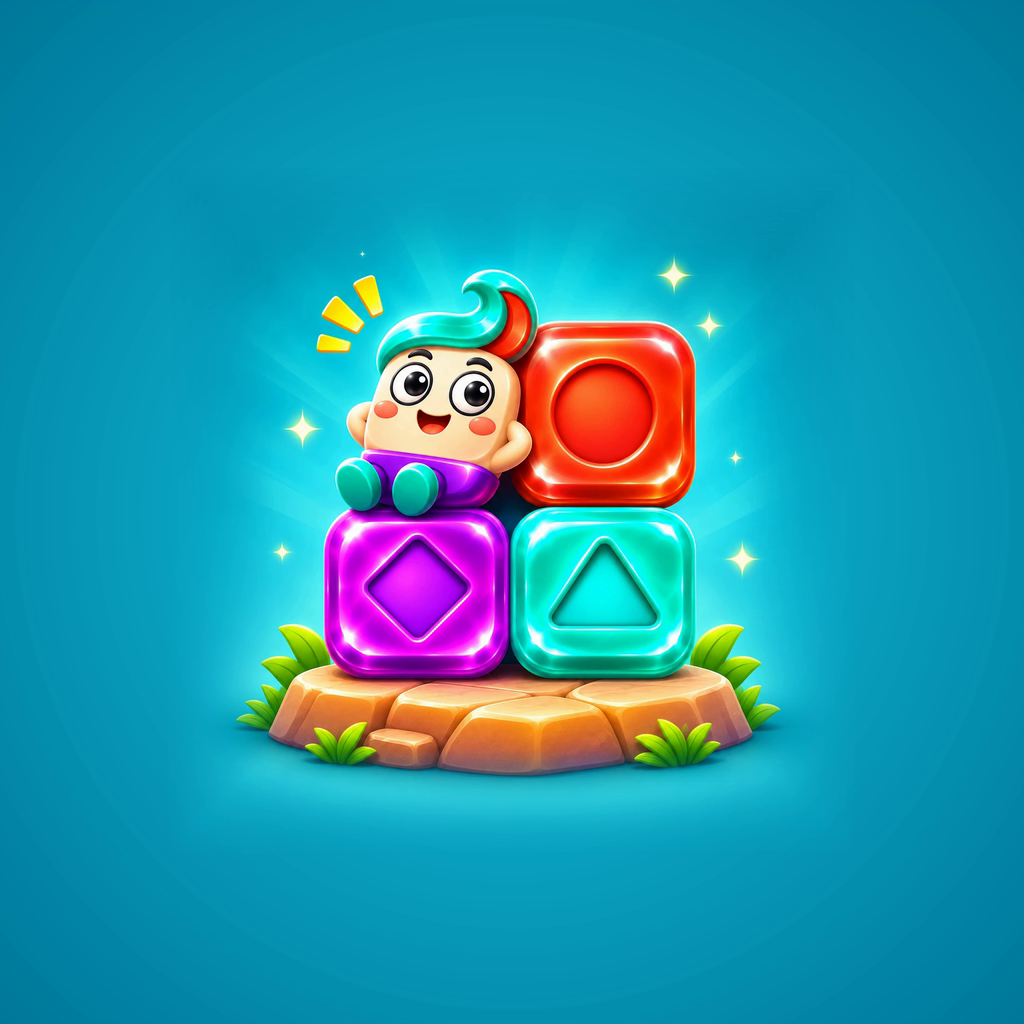
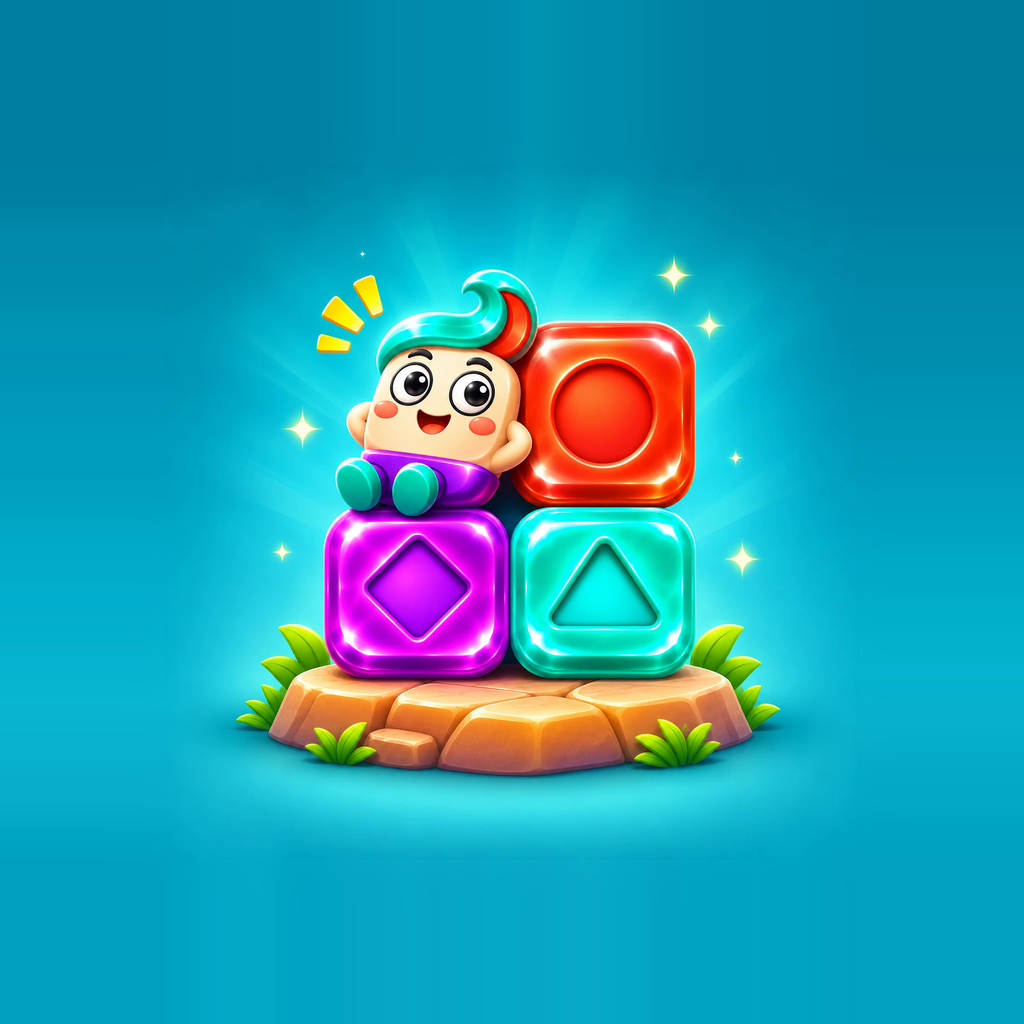
İkon v3: Android zemininde orijinal görsel birebir (ışınlar korunur), tüm boyutlar PNG kaynaktan

diff --git a/Assets/KatKat/Editor/BuildScripts.cs b/Assets/KatKat/Editor/BuildScripts.cs
@@ -224,7 +224,7 @@ namespace KatKat.EditorTools
 
         /// <summary>Uygulama ikonu (kullanıcı 2026-11-17: "yeni uygulama iconumuz bu"): docs/gorseller/arayuz/uygulama-ikonu-v3.png (maskot + 3 taş, turkuaz zemin; 1024'e küçültüldü).
         /// Önceki ikonlar arşivde: KatKat_Arsiv_2026-11-06/ikon_1.0_2026-11-10 ve ikon_1.0.1_2026-11-17.
-        /// Android uyarlanabilir: app-icon-bg = görselin zeminine uyan turkuaz radyal geçiş + ortada %68 ikon (kenarı yumuşak), app-icon-fg = saydam.</summary>
+        /// Android uyarlanabilir: app-icon-bg = ortada %68 orijinal görsel birebir (ışınlar dahil, kullanıcı: "orjinalini bozma"); dışı görselin kenar pikselleri uzatılıp hafif bulanıklaştırılarak doldurulur. app-icon-fg = saydam.</summary>
         private static Texture2D IconTex(string path)
         {
             var imp = AssetImporter.GetAtPath(path) as TextureImporter;

diff --git a/docs/KARARLAR.md b/docs/KARARLAR.md
@@ -10,7 +10,7 @@ Eski ayrıntılı karar günlüğü arşivde (`KatKat_Arsiv_2026-11-06/docs/KARA
 | Zincir yok (v14, 2026-11-16) | Kullanıcı: "zincir patlamaları iptal edelim", karar "Tamamen kaldır". Altından çıkan grup kendiliğinden patlamaz; seal/chainOnly/collectChain/aha verisi doğrulayıcıda reddedilir. Bölümler doğrudan yeniden üretildi ("Doğrudan 1000 bölüm"; "henüz yayında oyuncu yok", ilerleme göçü gerekmedi). |
 | Bölümler (v14) | `LevelLab v14` (`MainV14.cs`), eğri ve ölçütler `docs/v14/PLAN.md`; sağlama `levels_v14.sha256`. İç boşluklu tahta yok ("ortası delik tahtaları da kaldıralım"), dış hat çeşitli. 6 renk (Green, Navy eklendi). İleri bölümler zor ("ileri bölümler kolay olmasın"): 301+ pay 0–1, rastgele bot ≤%3. Eski v13 katalog arşivde. |
 | Renk açılış sırası (kullanıcı, 2026-11-16: "ilk beyaz ve turkuaz ile başla sonra kırmızı gelsin, sonra mor gelsin sonra yeşil sonra mavi. Bunu geniş bir bölüme yay tüm taşlar hemen çıkmasın") | İnci + turkuaz 1, mercan 8, mor 21, yeşil 61, lacivert 201 (`MainV14.V14ColorIntro`). Bölüm paleti yalnız açılmış renklerden seçilir. 1. bölümde iki renkle katlar soyulunca gruplar birleşip roket doğuruyordu: bu bölümde alt katlar üst katla aynı renk. Yalnız 1–200 yeniden üretildi (201+ zaten 6 renk); günlük bulmaca yeniden üretildi. |
-| Uygulama ikonu v3 (kullanıcı, 2026-11-17: "yeni uygulama iconumuz bu") | `Art/app-icon.png` ve `app-icon-legacy.png` = yeni görsel 1024; `app-icon-bg.png` turkuaz radyal geçiş + %68 görsel (yumuşak kenar), `app-icon-fg` saydam; `notify-large.png` 256; `docs/facebook/app-icon-1024/16` güncellendi. Kaynak `docs/gorseller/arayuz/uygulama-ikonu-v3.png` (1254). Eskiler `KatKat_Arsiv_2026-11-06/ikon_1.0.1_2026-11-17`. Mağaza ikonları (Play 512, AppGallery 216) ve yayındaki derlemeler değişmedi; sonraki derlemeyle gelir. |
+| Uygulama ikonu v3 (kullanıcı, 2026-11-17: "yeni uygulama iconumuz bu") | `Art/app-icon.png` ve `app-icon-legacy.png` = yeni görsel 1024; `app-icon-bg.png` ortada %68 orijinal birebir (kullanıcı: "orjinalini bozma ortadan yayılan ışıltıları yok etmişsin"; ilk denemedeki yumuşak kenar/renk geçişi kaldırıldı), dışı kenar pikselleri uzatılarak doldurulur, `app-icon-fg` saydam; `notify-large.png` 256; `docs/facebook/app-icon-1024/16` güncellendi. Kaynak `docs/gorseller/arayuz/uygulama-ikonu-v3.png` (1254). Eskiler `KatKat_Arsiv_2026-11-06/ikon_1.0.1_2026-11-17`. Mağaza ikonları (Play 512, AppGallery 216) ve yayındaki derlemeler değişmedi; sonraki derlemeyle gelir. |
 | Özel taşlar | 5–7 grup roket, 8+ Altın Rulo; tahtaya değil tepsiye (en çok 4). Seç ve taşa dokun; hamle harcamaz. Hamle bitse de tepside etkili taş varsa oyun sürer. |
 | Bölüm verisi | Kaynak `levels_src/*.txt`; JSON `LevelLab build` ile üretilir (JSON'a elle dokunma). Çözüm adımı `use yuva,x,y` tepsi kullanımıdır. |
 | Tahta şekli | (v14: iç boşluk yok, aşağısı v7–v13 arşivi) Karelerden dış hat (kesik köşe, L, T, artı, merdiven, kum saati, U, çatı, elmas) ve v7'den itibaren içi boş şekiller (halka, çift göz, kesik halka; 21+ bölümlerde her 3 bölümde bir, kenara değmeyen 2×2–3×3 boşluk). Boşluğa animasyonlu süs konur (maskot, fener, kaya, çeşme). |

diff --git a/docs/DURUM.md b/docs/DURUM.md
@@ -3,7 +3,7 @@
 Son güncelleme: 2026-11-16. Oyunun tam tanımı: [OYUN.md](OYUN.md). Kararlar: [KARARLAR.md](KARARLAR.md).
 
 ## Şu an
-- **2026-11-17: Yeni uygulama ikonu (v3)** (kullanıcı: "yeni uygulama iconumuz bu"). Maskot + 3 taş, turkuaz zemin. Değişen: `Assets/KatKat/Art/app-icon.png`, `app-icon-legacy.png`, `app-icon-bg.png` (Android uyarlanabilir zemin: turkuaz geçiş + %68 görsel), `notify-large.png`, `docs/facebook/app-icon-1024/16.png`; kaynak `docs/gorseller/arayuz/uygulama-ikonu-v3.png`. Eskiler `KatKat_Arsiv_2026-11-06/ikon_1.0.1_2026-11-17`. Yeni derleme alınmadı: APK/AAB, AppGallery 1.0.1 (incelemede) ve TestFlight yapı 16 eski ikonla. Mağaza ikonları (Play 512, AppGallery 216) güncellenmedi. Cihazda denenmedi.
+- **2026-11-17: Yeni uygulama ikonu (v3)** (kullanıcı: "yeni uygulama iconumuz bu"). Maskot + 3 taş, turkuaz zemin. Değişen: `Assets/KatKat/Art/app-icon.png`, `app-icon-legacy.png`, `app-icon-bg.png` (Android uyarlanabilir zemin: ortada %68 orijinal birebir, dışı kenar uzatma; tüm dosyalar PNG kaynaktan, ana ikon ve zemin merkezi kaynakla PSNR sonsuz), `notify-large.png`, `docs/facebook/app-icon-1024/16.png`; kaynak `docs/gorseller/arayuz/uygulama-ikonu-v3.png`. Eskiler `KatKat_Arsiv_2026-11-06/ikon_1.0.1_2026-11-17`. Yeni derleme alınmadı: APK/AAB, AppGallery 1.0.1 (incelemede) ve TestFlight yapı 16 eski ikonla. Mağaza ikonları (Play 512, AppGallery 216) güncellenmedi. Cihazda denenmedi.
 - **2026-11-16: iOS run 16 TestFlight'a yüklendi** (kullanıcı: "ios gönder"). Commit `d1bdf23` (renk açılış sırası + AppGallery değişiklikleri; iOS'ta canlı maç açık), https://github.com/ofigame/stone-burst/actions/runs/43899128906 başarılı, "TestFlight'a yükle" adımı geçti → yapı 16. TestFlight listesinde ve telefonda doğrulanmadı; App Store incelemesine gönderilmedi.
 - **2026-11-16: AppGallery 1.0.1 (kod 2) hazırlığı** (kullanıcı: "Huawei onayladı … huawei için canlı versiyonu hazırlayalım. Gerçek reklamlı. Canlı maç kapalı"; "mağaza görsellerini de yeniden oluştur ve mağazada güncelle"; "tablette göremiyorum … aktif edelim").
   - APK: `KATKAT_ANDROID_VERSION_CODE=2 KATKAT_ANDROID_VERSION_NAME=1.0.1 tools/unity.ps1 build-android-appgallery` → `Builds/Android/StoneBurst-AppGallery-1.0.1-2.apk` (144 MB). Sürüm adı yalnız bu pakette (`KATKAT_ANDROID_VERSION_NAME`, proje 1.0.0 kalır). Denetim: yükleme anahtarıyla imzalı (CN=OFIGAME); AdMob, Play Games ve Huawei sınıfı yok; Unity Ads gerçek kimlik (800434959, test modu kapalı); AdMob test/gerçek birimi yok. 1.0.0'a göre tek yeni izin POST_NOTIFICATIONS (bildirimler). Bölümler kilitli (KATKAT_UNLOCK_ALL yok).

diff --git a/docs/OYUN.md b/docs/OYUN.md
@@ -208,7 +208,7 @@ Aşağısı v7 dönemi (arşiv bilgisi): Bölümler `LevelLab rebuild` (v7) ile 
 - **Ayarlar:** Resimsiz; turkuaz→krem renk geçişi, süzülen kabarcıklar. Krem kartta Ses ve Titreşim anahtarları, Dil (dokuz dil, her biri kendi yazısıyla), kısa not; altta sürüm. Dil değişince ekranlar yeni dille yeniden kurulur.
 - **Yazı tipi:** Nunito ExtraBold (başlık, düğme, sayılar) ve Nunito SemiBold (açıklama), OFL lisanslı. Arapça için Noto Sans Arabic, Japonca/Korece için Noto Sans KR yedek fontları. Hap düğmelerde yazı yüksekliğin ~%32'si, uzun metin sığana dek küçülür.
 - **Maskot:** Kristal maskot; gözleri etrafa bakar, göz kırpar; büyük hamle, özel taş ve yıldızda zıplar; son 1–3 hamlede endişelenir.
-- **Uygulama ikonu (2026-11-17):** Turkuaz zemin, taş platform üstünde gülen maskot + mor (baklava), mercan (daire), turkuaz (üçgen) taşlar (`docs/gorseller/arayuz/uygulama-ikonu-v3.png`). Android uyarlanabilir ikonda zemin turkuaz geçiş, görsel ortada %68. Bildirim büyük simgesi aynı görsel.
+- **Uygulama ikonu (2026-11-17):** Turkuaz zemin, taş platform üstünde gülen maskot + mor (baklava), mercan (daire), turkuaz (üçgen) taşlar (`docs/gorseller/arayuz/uygulama-ikonu-v3.png`). Android uyarlanabilir ikonda orijinal görsel ortada %68, dışı kenar uzatma. Bildirim büyük simgesi aynı görsel.
 
 ## 8. Proje yapısı
 
